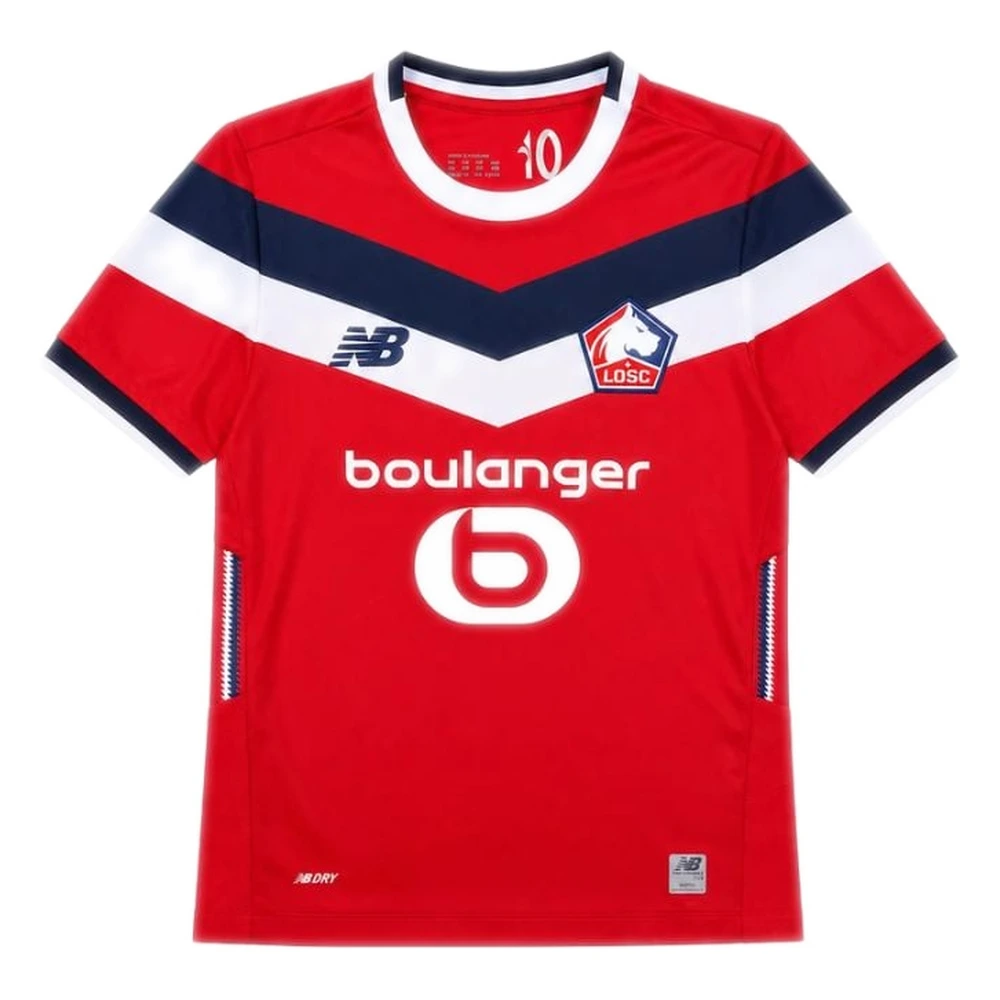
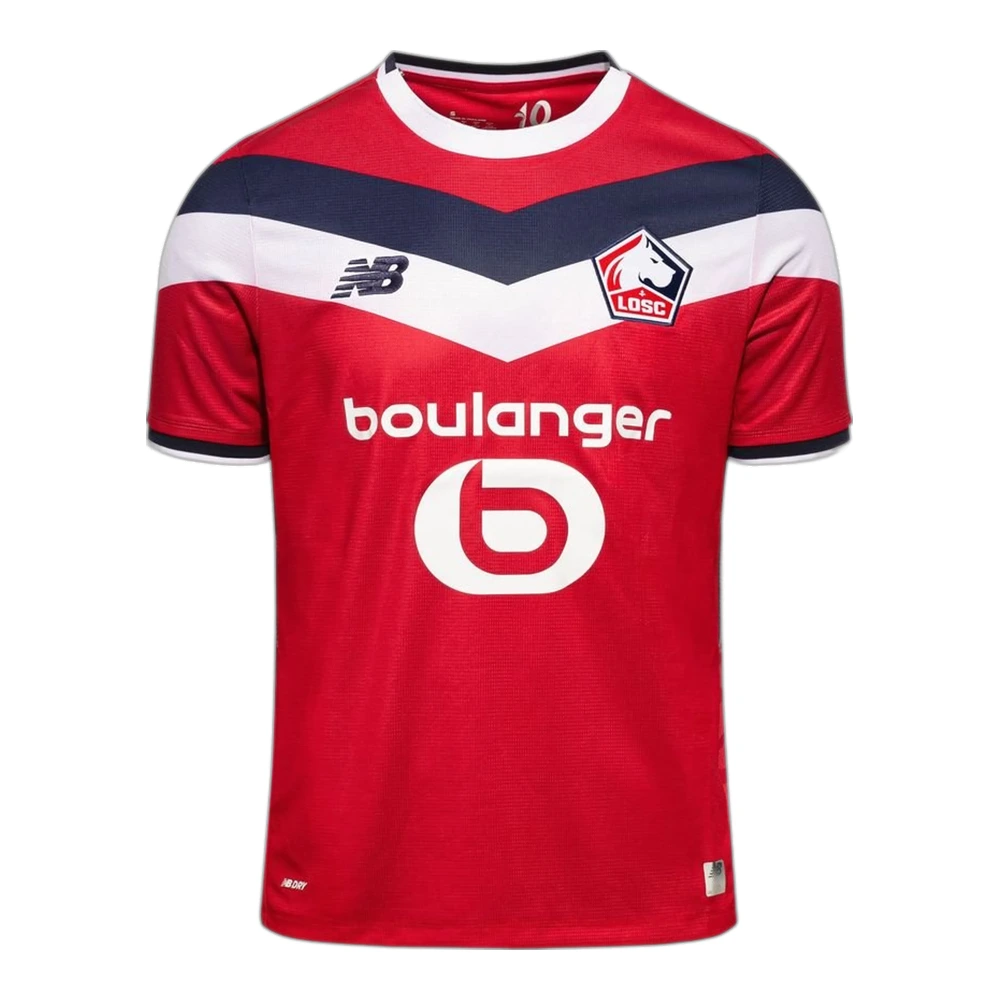
Remplace les photos du maillot Lille Domicile 2026-27 et ajoute Extérieur/Third 2026-27 et Domicile 2025-26

diff --git a/index.html b/index.html
@@ -1925,6 +1925,9 @@ const products = [
   { id:725, club:'Lille', name:'Maillot Extérieur', season:'2025-26', league:'Ligue 1', type:'standard', emoji:'👕', mainColor:'#EBE2D1', accentColor:'#815E65', flocageColor:'#111111', frontImage:'images/lille-ext-2526-1.webp', carouselImages:['images/lille-ext-2526-1.webp','images/lille-ext-2526-2.webp'] },
   { id:726, club:'Lille', name:'Maillot Fourth', season:'2025-26', league:'Ligue 1', type:'standard', emoji:'👕', mainColor:'#5A2848', accentColor:'#CC8DAC', flocageColor:'#FFFFFF', frontImage:'images/lille-4th-2526-1.webp', carouselImages:['images/lille-4th-2526-1.webp','images/lille-4th-2526-2.webp'] },
   { id:727, club:'Lille', name:'Maillot Third', season:'2025-26', league:'Ligue 1', type:'standard', emoji:'👕', mainColor:'#1E2B4A', accentColor:'#D6C297', flocageColor:'#FFFFFF', frontImage:'images/lille-3rd-2526-1.webp', carouselImages:['images/lille-3rd-2526-1.webp','images/lille-3rd-2526-2.webp'] },
+  { id:927, club:'Lille', name:'Maillot Extérieur', season:'2026-27', league:'Ligue 1', type:'standard', emoji:'👕', mainColor:'#FFFFFF', accentColor:'#1A2B6B', flocageColor:'#D71D30', frontImage:'images/lille-ext-2627-1.webp', carouselImages:['images/lille-ext-2627-1.webp','images/lille-ext-2627-2.webp'] },
+  { id:928, club:'Lille', name:'Maillot Third', season:'2026-27', league:'Ligue 1', type:'standard', emoji:'👕', mainColor:'#1A1F3D', accentColor:'#D71D30', flocageColor:'#FFFFFF', frontImage:'images/lille-3rd-2627-1.webp', carouselImages:['images/lille-3rd-2627-1.webp','images/lille-3rd-2627-2.webp'] },
+  { id:929, club:'Lille', name:'Maillot Domicile', season:'2025-26', league:'Ligue 1', type:'standard', emoji:'👕', mainColor:'#D71D30', accentColor:'#FFFFFF', flocageColor:'#FFFFFF', frontImage:'images/lille-home-2526-1.webp', carouselImages:['images/lille-home-2526-1.webp','images/lille-home-2526-2.webp'] },
   { id:728, club:'Middlesbrough', name:'Maillot Domicile', season:'2026-27', league:'2ème Division', subLeague:'Angleterre — Championship', type:'standard', emoji:'👕', mainColor:'#EB3435', accentColor:'#E7B2A8', flocageColor:'#FFFFFF', frontImage:'images/middlesbrough-home-2627-1.webp', carouselImages:['images/middlesbrough-home-2627-1.webp','images/middlesbrough-home-2627-2.webp'] },
   { id:729, club:'Middlesbrough', name:'Maillot Extérieur', season:'2026-27', league:'2ème Division', subLeague:'Angleterre — Championship', type:'standard', emoji:'👕', mainColor:'#DFDDE0', accentColor:'#56586B', flocageColor:'#111111', frontImage:'images/middlesbrough-ext-2627-1.webp', carouselImages:['images/middlesbrough-ext-2627-1.webp','images/middlesbrough-ext-2627-2.webp'] },
   { id:730, club:'Millwall', name:'Maillot Domicile', season:'2026-27', league:'2ème Division', subLeague:'Angleterre — Championship', type:'standard', emoji:'👕', mainColor:'#131B2F', accentColor:'#7F828A', flocageColor:'#FFFFFF', frontImage:'images/millwall-home-2627-1.webp', carouselImages:['images/millwall-home-2627-1.webp','images/millwall-home-2627-2.webp'] },
